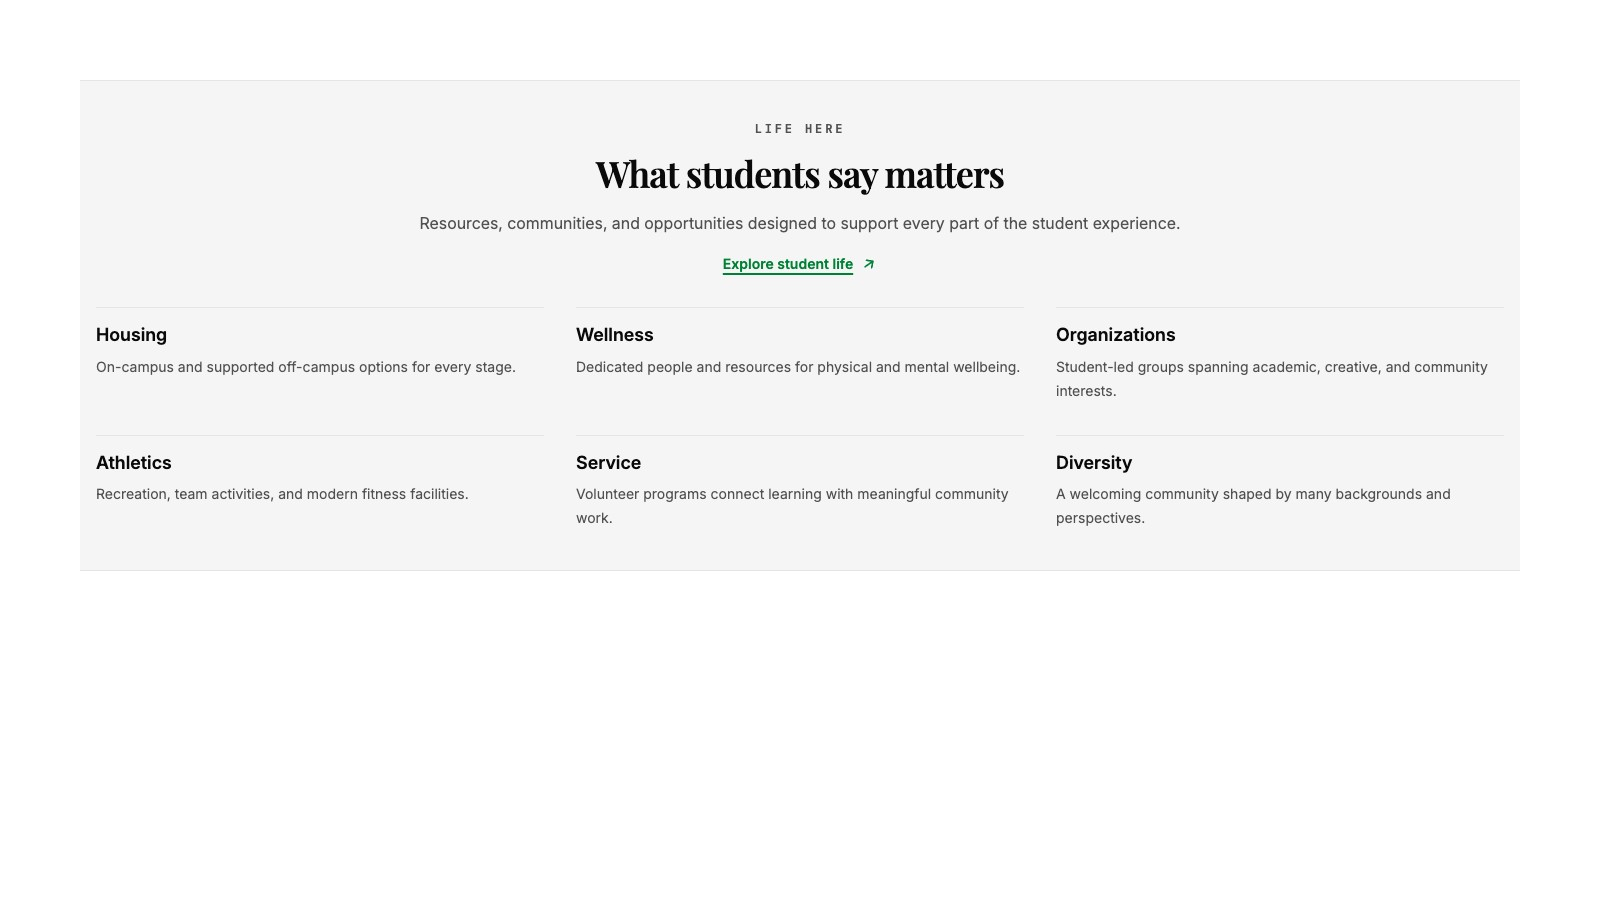
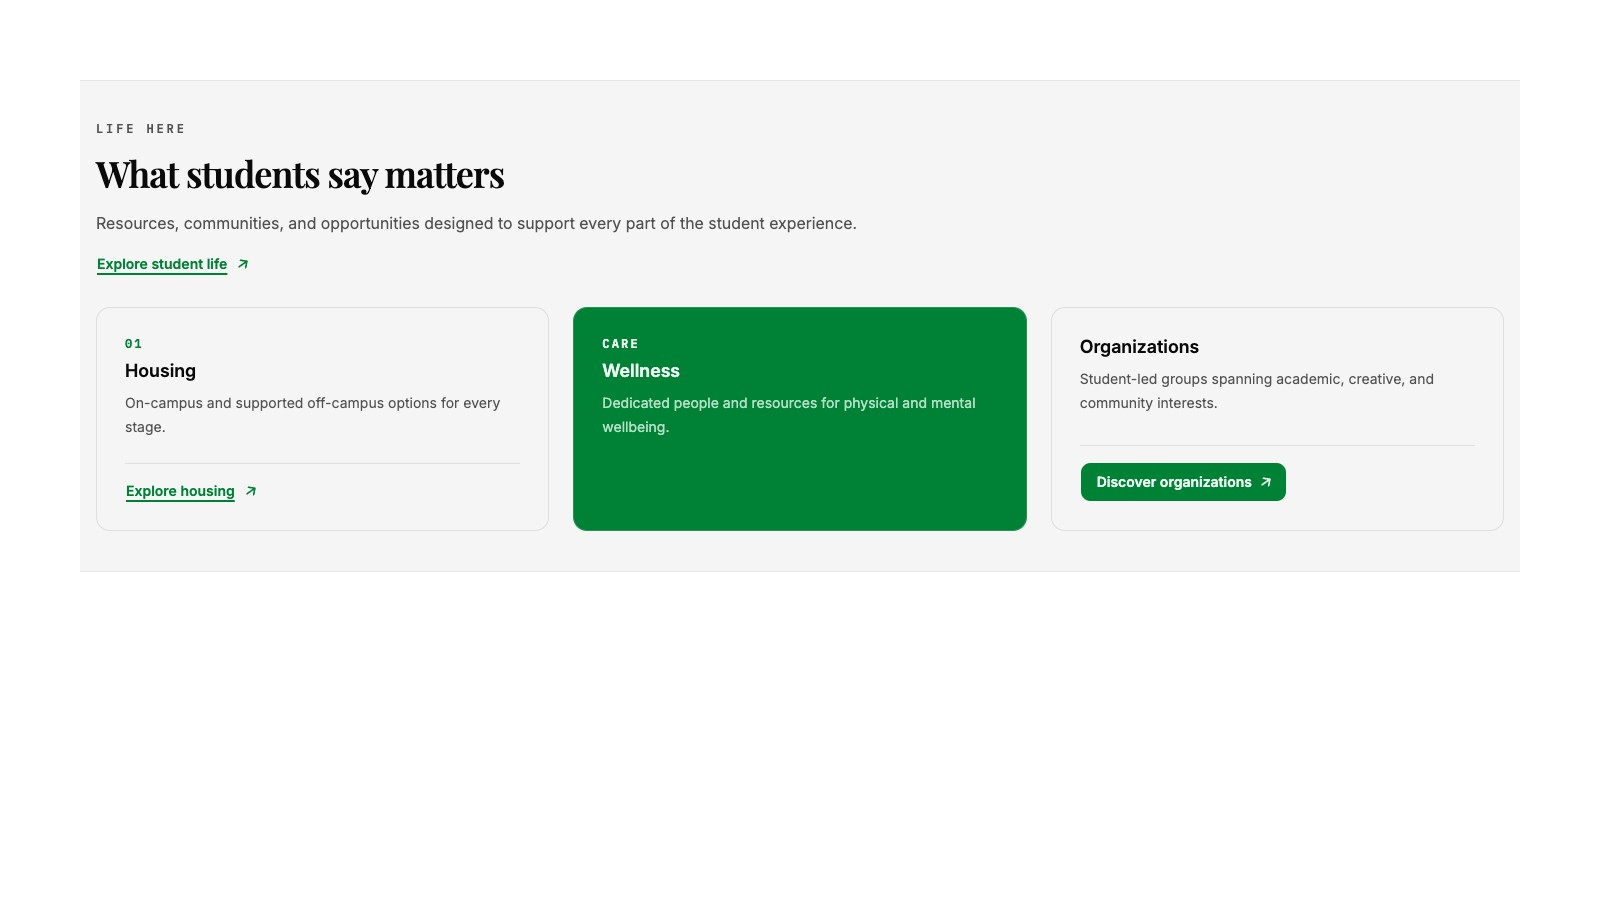
chore(content-highlights): refresh artifacts

diff --git a/src/payload-types.ts b/src/payload-types.ts
@@ -991,7 +991,7 @@ export interface FeatureMatrixBlock {
  */
 export interface ContentHighlightsBlock {
   eyebrow?: string | null;
-  title?: string | null;
+  title: string;
   accentTitle?: string | null;
   description?: string | null;
   actions?:
@@ -1033,15 +1033,37 @@ export interface ContentHighlightsBlock {
       }[]
     | null;
   items: {
-    metadata?: string | null;
-    title?: string | null;
-    description?: string | null;
-    linkType: 'none' | 'page' | 'custom';
-    page?: (string | null) | Page;
-    url?: string | null;
-    openInNewTab?: boolean | null;
     /**
-     * Applied only when the block uses the Numbered Steps presentation.
+     * Choose how this card is identified before its title.
+     */
+    markerMode: 'numbered' | 'custom' | 'hidden';
+    /**
+     * Short text such as Clinical, Year 1, or Research.
+     */
+    markerLabel?: string | null;
+    title: string;
+    description?: string | null;
+    cardAction?:
+      | {
+          label: string;
+          linkType?: ('page' | 'custom') | null;
+          page?: (string | null) | Page;
+          url?: string | null;
+          openInNewTab?: boolean | null;
+          mode?: ('link' | 'button') | null;
+          /**
+           * Default adapts to the surrounding section or image overlay. Primary always uses the site theme's primary color. White variants stay white and are intended for dark, brand, or image backgrounds.
+           */
+          variant?: ('default' | 'primary' | 'secondary' | 'outline' | 'white' | 'whiteOutline') | null;
+          /**
+           * Adds a trailing arrow when this action is displayed as a button.
+           */
+          showArrow?: boolean | null;
+          id?: string | null;
+        }[]
+      | null;
+    /**
+     * Default Card inherits the section background. Other choices use the active theme and automatically adjust card contrast.
      */
     cardBackground: 'default' | 'primary' | 'secondary' | 'muted' | 'accent';
     id?: string | null;
@@ -1050,8 +1072,8 @@ export interface ContentHighlightsBlock {
     background: 'none' | 'subtle' | 'brand' | 'gradient-subtle' | 'gradient-brand';
     border: 'none' | 'top' | 'bottom' | 'topAndBottom';
   };
-  layout: 'editorialRow' | 'highlightsGrid' | 'simpleGrid' | 'numberedSteps';
-  enableSplitLayout?: boolean | null;
+  layout: 'editorialRow' | 'highlightsGrid' | 'simpleGrid';
+  headerLayout: 'stacked' | 'split';
   contentAlignment?: ('left' | 'center' | 'right') | null;
   splitContentAlignment?: ('top' | 'center' | 'bottom') | null;
   size: 'none' | 'compact' | 'default' | 'comfortable';
@@ -6071,13 +6093,23 @@ export interface ContentHighlightsBlockSelect<T extends boolean = true> {
   items?:
     | T
     | {
-        metadata?: T;
+        markerMode?: T;
+        markerLabel?: T;
         title?: T;
         description?: T;
-        linkType?: T;
-        page?: T;
-        url?: T;
-        openInNewTab?: T;
+        cardAction?:
+          | T
+          | {
+              label?: T;
+              linkType?: T;
+              page?: T;
+              url?: T;
+              openInNewTab?: T;
+              mode?: T;
+              variant?: T;
+              showArrow?: T;
+              id?: T;
+            };
         cardBackground?: T;
         id?: T;
       };
@@ -6088,7 +6120,7 @@ export interface ContentHighlightsBlockSelect<T extends boolean = true> {
         border?: T;
       };
   layout?: T;
-  enableSplitLayout?: T;
+  headerLayout?: T;
   contentAlignment?: T;
   splitContentAlignment?: T;
   size?: T;

diff --git a/src/block-thumbnails/fixtures.tsx b/src/block-thumbnails/fixtures.tsx
@@ -540,37 +540,42 @@ export const blockThumbnailFixtures = {
       appearance={{ background: 'subtle', border: 'topAndBottom' }}
       description="Resources, communities, and opportunities designed to support every part of the student experience."
       eyebrow="Life here"
+      headerLayout="stacked"
       items={[
         {
+          cardAction: [
+            {
+              label: 'Explore housing',
+              linkType: 'custom',
+              mode: 'link',
+              url: '/student-life/housing',
+            },
+          ],
           description: 'On-campus and supported off-campus options for every stage.',
-          linkType: 'custom',
+          markerMode: 'numbered',
           title: 'Housing',
-          url: '/student-life/housing',
         },
         {
+          cardBackground: 'primary',
           description: 'Dedicated people and resources for physical and mental wellbeing.',
-          linkType: 'none',
+          markerLabel: 'Care',
+          markerMode: 'custom',
           title: 'Wellness',
         },
         {
+          cardAction: [
+            {
+              label: 'Discover organizations',
+              linkType: 'custom',
+              mode: 'button',
+              showArrow: true,
+              url: '/student-life/organizations',
+              variant: 'default',
+            },
+          ],
           description: 'Student-led groups spanning academic, creative, and community interests.',
-          linkType: 'none',
+          markerMode: 'hidden',
           title: 'Organizations',
-        },
-        {
-          description: 'Recreation, team activities, and modern fitness facilities.',
-          linkType: 'none',
-          title: 'Athletics',
-        },
-        {
-          description: 'Volunteer programs connect learning with meaningful community work.',
-          linkType: 'none',
-          title: 'Service',
-        },
-        {
-          description: 'A welcoming community shaped by many backgrounds and perspectives.',
-          linkType: 'none',
-          title: 'Diversity',
         },
       ]}
       layout="highlightsGrid"
